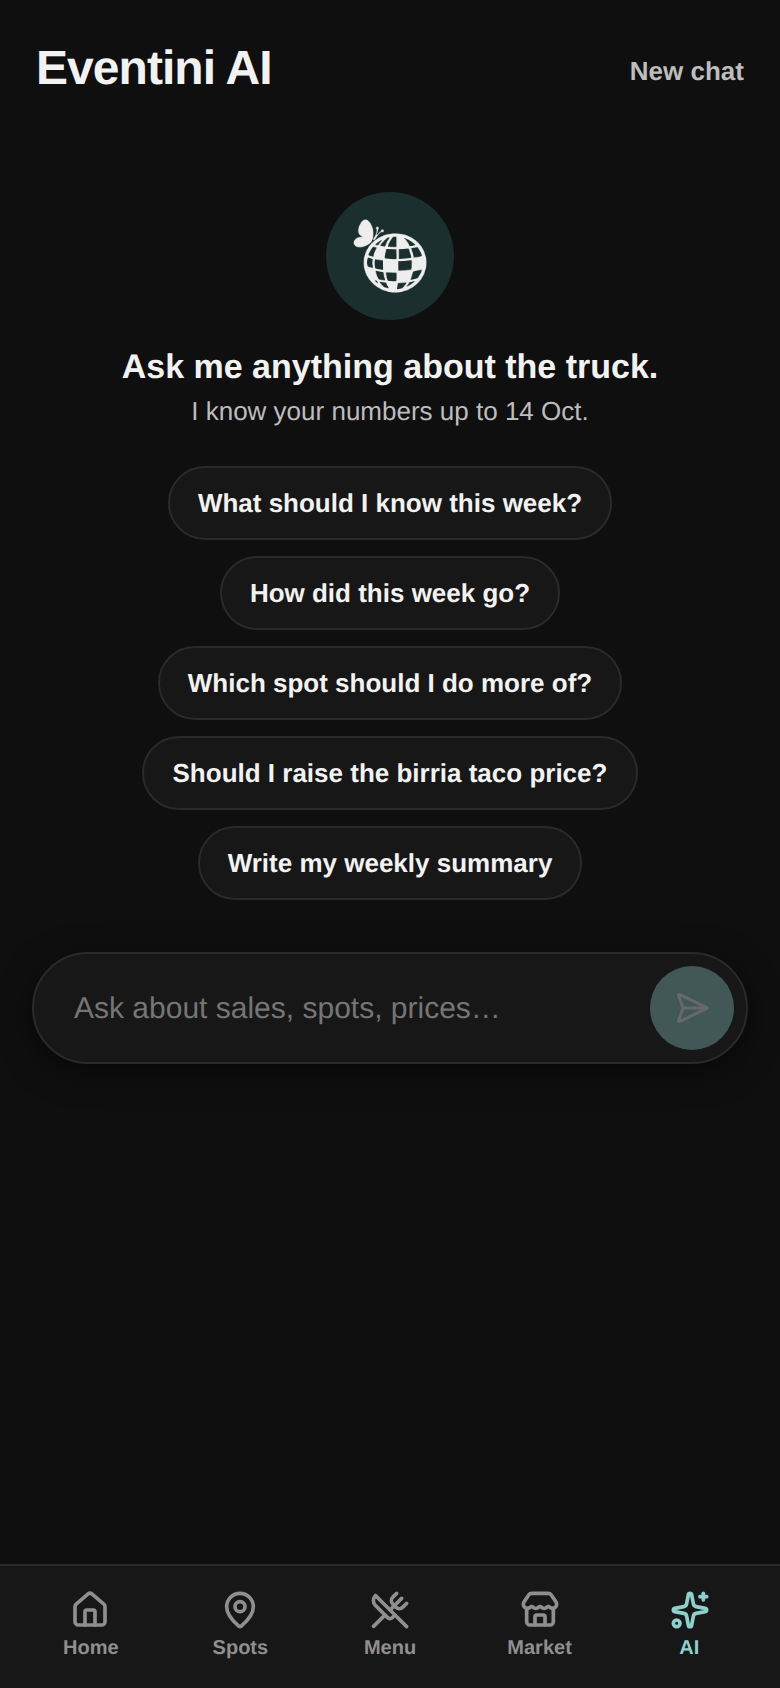
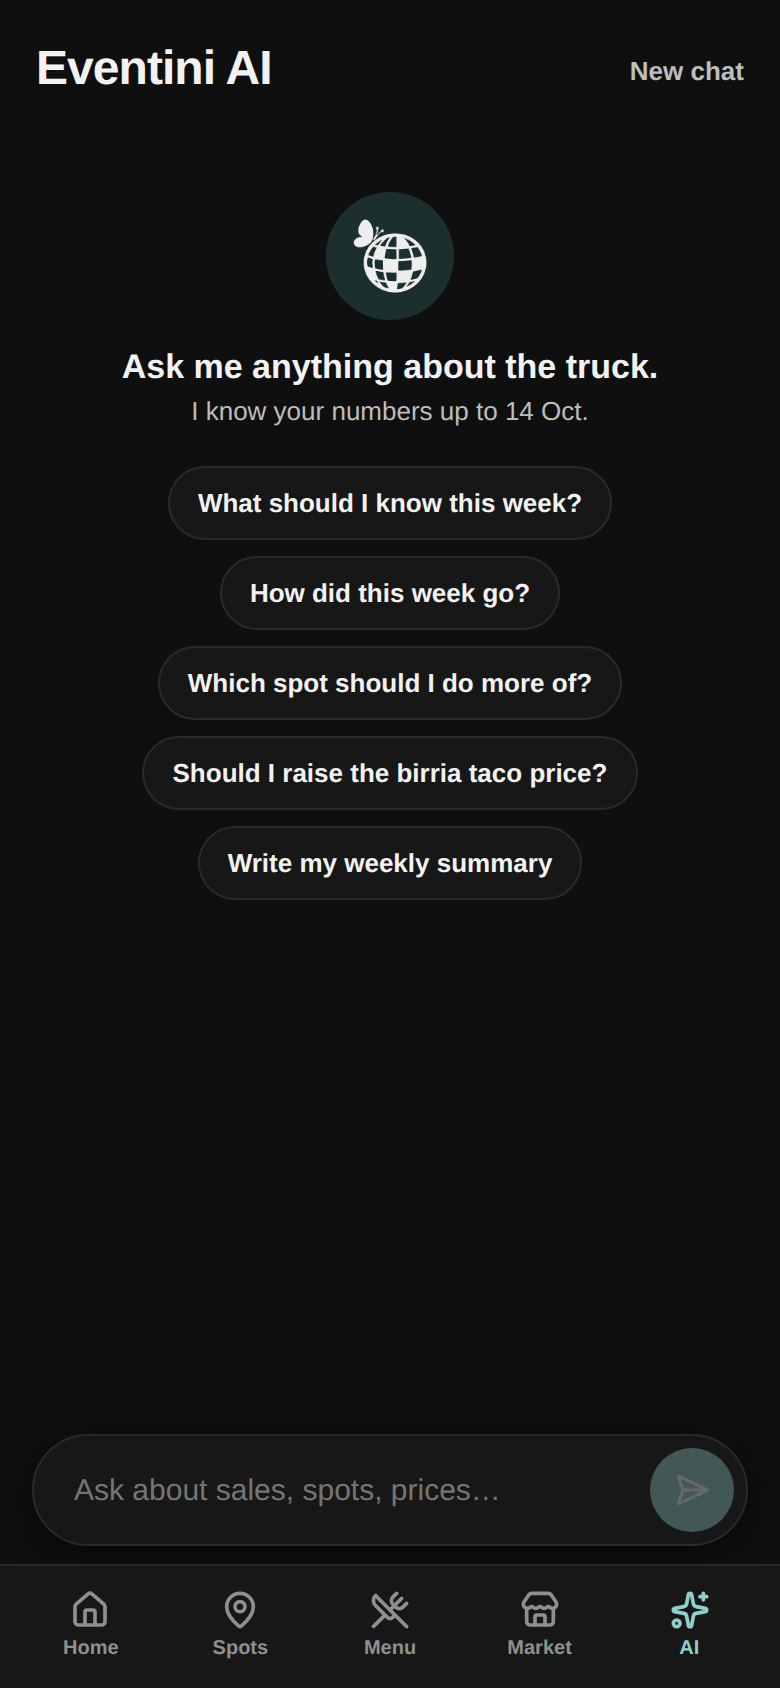
AI tab: pin the ask bar to the bottom of the screen above the tab bar
Claude-Session: https://claude.ai/code/session_011kULvXi1EhLGoQfkcWDNEp

diff --git a/food-truck-app/src/app.css b/food-truck-app/src/app.css
@@ -235,7 +235,10 @@ h2 { font-size: 16px; font-weight: 700; }
 .bubble.typing i:nth-child(2) { animation-delay: 0.2s; }
 .bubble.typing i:nth-child(3) { animation-delay: 0.4s; }
 @keyframes blink { 0%, 80%, 100% { opacity: 0.3; transform: translateY(0); } 40% { opacity: 1; transform: translateY(-3px); } }
-.askbar { position: sticky; bottom: 92px; display: flex; gap: 8px; background: var(--card); border: 1px solid var(--line); border-radius: 999px; padding: 6px 6px 6px 18px; box-shadow: 0 4px 16px var(--shadow); }
+/* Pinned to the bottom of the screen, just above the tab bar, like a messaging app. */
+.ai-screen { padding-bottom: 76px; }
+.askbar-wrap { position: fixed; left: 0; right: 0; bottom: calc(63px + env(safe-area-inset-bottom)); z-index: 9; max-width: 430px; margin: 0 auto; padding: 10px 16px 8px; background: var(--bg); }
+.askbar { display: flex; gap: 8px; background: var(--card); border: 1px solid var(--line); border-radius: 999px; padding: 6px 6px 6px 18px; box-shadow: 0 4px 16px var(--shadow); }
 .askbar input { flex: 1; border: 0; background: transparent; color: var(--ink); font: inherit; font-size: 15px; outline: none; min-width: 0; }
 .askbar button { width: 42px; height: 42px; border-radius: 50%; border: 0; background: var(--accent-ink); color: #fff; display: grid; place-items: center; cursor: pointer; }
 .askbar button:disabled { opacity: 0.35; }

diff --git a/food-truck-app/src/screens/Insights.tsx b/food-truck-app/src/screens/Insights.tsx
@@ -31,7 +31,7 @@ export default function Insights() {
   }
 
   return (
-    <div className="screen">
+    <div className="screen ai-screen">
       <header className="top"><h1>Eventini AI</h1><button className="linkish" onClick={() => { setMsgs([]); setErr(null) }}>New chat</button></header>
 
       {needPass && (
@@ -69,10 +69,12 @@ export default function Insights() {
         <div ref={endRef} />
       </div>
 
+      <div className="askbar-wrap">
       <form className="askbar" onSubmit={(e) => { e.preventDefault(); send(q) }}>
         <input value={q} onChange={(e) => setQ(e.target.value)} placeholder="Ask about sales, spots, prices…" disabled={busy} />
         <button type="submit" aria-label="Send" disabled={busy || !q.trim()}><SendHorizontal size={18} /></button>
       </form>
+      </div>
     </div>
   )
 }
